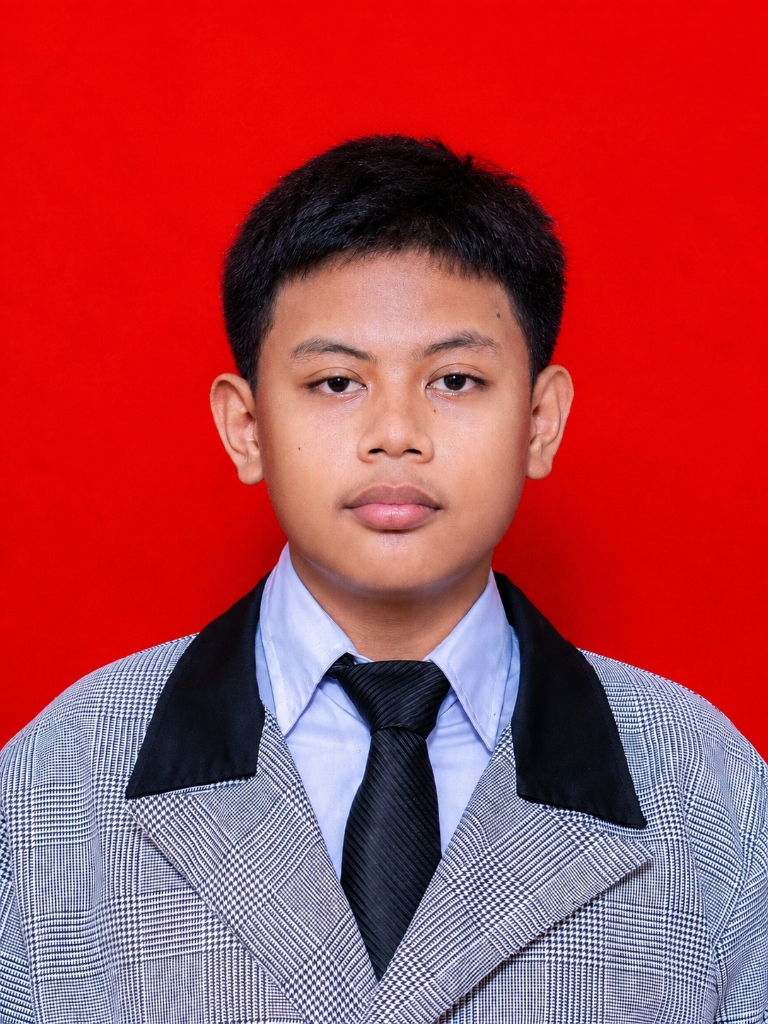
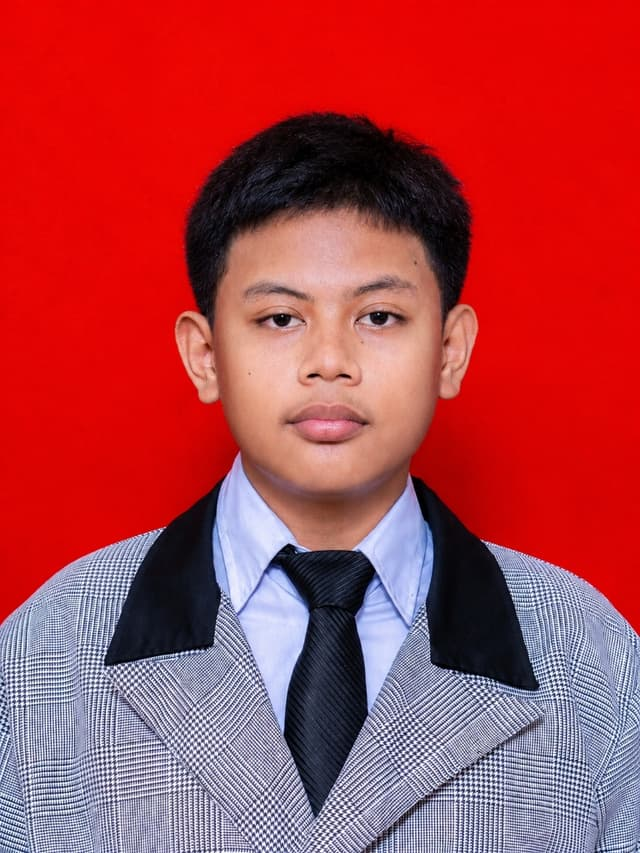
feat: implement contact section with Firebase integration, social links, and particle canvas layout

Changed region(s): [[0.0, 0.6401, 1.0, 1.0]]

diff --git a/src/components/layout/Footer.tsx b/src/components/layout/Footer.tsx
@@ -1,4 +1,4 @@
-"use client"
+"use client"
 
 import Link from 'next/link';
 import { useLanguage } from '@/components/providers/LanguageContext';
@@ -35,7 +35,7 @@ export const Footer = () => {
               <div className="w-8 h-8 rounded-xl bg-gradient-to-br from-primary to-primary/60 flex items-center justify-center text-primary-foreground text-[10px] font-black">N</div>
               <span className="text-lg font-black">Nara Andra Tyaga</span>
             </div>
-            <p className="text-sm text-muted-foreground/70 leading-relaxed max-w-xs">
+            <p className="text-sm text-foreground/80 leading-relaxed max-w-xs">
               {language === 'id' 
                 ? 'Membangun solusi digital yang modern, cepat, dan berdampak.'
                 : 'Building modern, fast, and impactful digital solutions.'}
@@ -44,7 +44,7 @@ export const Footer = () => {
 
           {/* Quick links */}
           <div className="space-y-4">
-            <h3 className="text-[10px] font-black uppercase tracking-[0.2em] text-muted-foreground">
+            <h3 className="text-[10px] font-black uppercase tracking-[0.2em] text-foreground/90">
               {language === 'id' ? 'Tautan Cepat' : 'Quick Links'}
             </h3>
             <nav className="flex flex-col gap-2">
@@ -52,7 +52,7 @@ export const Footer = () => {
                 <Link
                   key={link.label}
                   href={link.href}
-                  className="text-sm text-muted-foreground/60 hover:text-primary transition-colors duration-200 w-fit"
+                  className="text-sm text-muted-foreground hover:text-primary transition-colors duration-200 w-fit"
                 >
                   {link.label}
                 </Link>
@@ -62,7 +62,7 @@ export const Footer = () => {
 
           {/* Social */}
           <div className="space-y-4">
-            <h3 className="text-[10px] font-black uppercase tracking-[0.2em] text-muted-foreground">
+            <h3 className="text-[10px] font-black uppercase tracking-[0.2em] text-foreground/90">
               {language === 'id' ? 'Ikuti Saya' : 'Follow Me'}
             </h3>
             <div className="flex gap-3">
@@ -87,13 +87,13 @@ export const Footer = () => {
 
         {/* Bottom bar */}
         <div className="flex flex-col sm:flex-row items-center justify-between gap-4">
-          <p className="text-xs text-muted-foreground/50 text-center sm:text-left">
+          <p className="text-xs text-muted-foreground text-center sm:text-left">
             {t.footerCopyright}
           </p>
           {/* Tech stack badges */}
           <div className="flex flex-wrap justify-center gap-2">
             {['Next.js 15', 'React', 'TypeScript', 'Tailwind CSS', 'Firebase'].map(tech => (
-              <span key={tech} className="text-[8px] font-semibold px-2 py-0.5 rounded-full border border-border/20 text-muted-foreground/40 hover:text-primary hover:border-primary/30 transition-colors cursor-default">
+              <span key={tech} className="text-[8px] font-semibold px-2 py-0.5 rounded-full border border-border/40 text-muted-foreground hover:text-primary hover:border-primary/30 transition-colors cursor-default">
                 {tech}
               </span>
             ))}

diff --git a/src/components/sections/Contact.tsx b/src/components/sections/Contact.tsx
@@ -1,4 +1,4 @@
-
+
 "use client"
 
 import React, { useState } from 'react';
@@ -8,7 +8,13 @@ import { Button } from '../ui/button';
 import { Input } from '../ui/input';
 import { Textarea } from '../ui/textarea';
 import { Send, Linkedin, ExternalLink, Github, Instagram, Video, Mail, Loader2 } from 'lucide-react';
-import { FaWhatsapp } from 'react-icons/fa'; // Import WhatsApp icon
+
+// Inline WhatsApp SVG — replaces react-icons/fa (441 KiB bundle) with zero overhead
+const WhatsAppIcon = ({ className }: { className?: string }) => (
+  <svg className={className} viewBox="0 0 24 24" fill="currentColor" aria-hidden="true">
+    <path d="M17.472 14.382c-.297-.149-1.758-.867-2.03-.967-.273-.099-.471-.148-.67.15-.197.297-.767.966-.94 1.164-.173.199-.347.223-.644.075-.297-.15-1.255-.463-2.39-1.475-.883-.788-1.48-1.761-1.653-2.059-.173-.297-.018-.458.13-.606.134-.133.298-.347.446-.52.149-.174.198-.298.298-.497.099-.198.05-.371-.025-.52-.075-.149-.669-1.612-.916-2.207-.242-.579-.487-.5-.669-.51-.173-.008-.371-.01-.57-.01-.198 0-.52.074-.792.372-.272.297-1.04 1.016-1.04 2.479 0 1.462 1.065 2.875 1.213 3.074.149.198 2.096 3.2 5.077 4.487.709.306 1.262.489 1.694.625.712.227 1.36.195 1.871.118.571-.085 1.758-.719 2.006-1.413.248-.694.248-1.289.173-1.413-.074-.124-.272-.198-.57-.347m-5.421 7.403h-.004a9.87 9.87 0 01-5.031-1.378l-.361-.214-3.741.982.998-3.648-.235-.374a9.86 9.86 0 01-1.51-5.26c.001-5.45 4.436-9.884 9.888-9.884 2.64 0 5.122 1.03 6.988 2.898a9.825 9.825 0 012.893 6.994c-.003 5.45-4.437 9.884-9.885 9.884m8.413-18.297A11.815 11.815 0 0012.05 0C5.495 0 .16 5.335.157 11.892c0 2.096.547 4.142 1.588 5.945L.057 24l6.305-1.654a11.882 11.882 0 005.683 1.448h.005c6.554 0 11.89-5.335 11.893-11.893a11.821 11.821 0 00-3.48-8.413z"/>
+  </svg>
+);
 import { useFirestore } from '@/firebase';
 import { collection, addDoc } from 'firebase/firestore';
 import { m as motion, AnimatePresence } from 'framer-motion';
@@ -67,7 +73,7 @@ export const Contact = () => {
   };
 
   const socialLinks = [
-    { id: 'wa', label: t.waLink, value: profile.whatsapp, url: `https://wa.me/${profile.whatsapp}`, icon: FaWhatsapp, color: 'bg-green-500', active: !!profile.whatsapp },
+    { id: 'wa', label: t.waLink, value: profile.whatsapp, url: `https://wa.me/${profile.whatsapp}`, icon: WhatsAppIcon, color: 'bg-green-500', active: !!profile.whatsapp },
     { id: 'li', label: t.liLink, value: profile.linkedin?.replace('https://', ''), url: profile.linkedin, icon: Linkedin, color: 'bg-blue-600', active: !!profile.linkedin },
     { id: 'ig', label: 'Instagram', value: profile.instagram?.split('/').pop() || 'Instagram', url: profile.instagram, icon: Instagram, color: 'bg-pink-600', active: !!profile.instagram },
     { id: 'gh', label: 'GitHub', value: profile.github?.split('/').pop() || 'GitHub', url: profile.github, icon: Github, color: 'bg-slate-800', active: !!profile.github },

diff --git a/src/components/layout/Navbar.tsx b/src/components/layout/Navbar.tsx
@@ -1,4 +1,4 @@
-
+
 "use client"
 
 import React, { useState, useEffect } from 'react';
@@ -35,32 +35,39 @@ export const Navbar = () => {
   const [activeSection, setActiveSection] = useState('/');
 
   useEffect(() => {
+    let ticking = false;
     const handleScroll = () => {
-      const currentScrollY = window.scrollY;
-      
-      if (currentScrollY < 10) {
-        setIsVisible(true);
-      } else if (currentScrollY > lastScrollY) {
-        setIsVisible(false);
-      } else {
-        setIsVisible(true);
-      }
-      
-      setLastScrollY(currentScrollY);
-
-      // ScrollSpy logic
-      const sections = ['portfolio', 'journey', 'contact'];
-      let current = '/';
-      for (const section of sections) {
-        const element = document.getElementById(section);
-        if (element) {
-          const rect = element.getBoundingClientRect();
-          if (rect.top <= 150 && rect.bottom >= 150) {
-            current = `#${section}`;
+      if (!ticking) {
+        window.requestAnimationFrame(() => {
+          const currentScrollY = window.scrollY;
+          
+          if (currentScrollY < 10) {
+            setIsVisible(true);
+          } else if (currentScrollY > lastScrollY) {
+            setIsVisible(false);
+          } else {
+            setIsVisible(true);
           }
-        }
+          
+          setLastScrollY(currentScrollY);
+
+          // ScrollSpy logic
+          const sections = ['portfolio', 'journey', 'contact'];
+          let current = '/';
+          for (const section of sections) {
+            const element = document.getElementById(section);
+            if (element) {
+              const rect = element.getBoundingClientRect();
+              if (rect.top <= 150 && rect.bottom >= 150) {
+                current = `#${section}`;
+              }
+            }
+          }
+          setActiveSection(current);
+          ticking = false;
+        });
+        ticking = true;
       }
-      setActiveSection(current);
     };
 
     window.addEventListener('scroll', handleScroll, { passive: true });

diff --git a/next.config.ts b/next.config.ts
@@ -13,12 +13,20 @@ const nextConfig: NextConfig = {
   },
   // Tree-shake large packages — reduces unused JS significantly
   experimental: {
-    optimizePackageImports: ['framer-motion', 'lucide-react', '@radix-ui/react-icons'],
+    optimizePackageImports: ['framer-motion', 'lucide-react'],
+    cpus: 1,
+    workerThreads: false,
   },
-
+  // Per-icon tree shaking for lucide-react (eliminates unused icons in production)
+  modularizeImports: {
+    'lucide-react': {
+      transform: 'lucide-react/dist/esm/icons/{{kebabCase member}}',
+      skipDefaultConversion: true,
+    },
+  },
   async headers() {
     const isDev = process.env.NODE_ENV === 'development';
-    const scriptSrc = `default-src 'self'; script-src 'self' ${isDev ? "'unsafe-eval'" : ""} 'unsafe-inline' https://apis.google.com; style-src 'self' 'unsafe-inline' https://fonts.googleapis.com; img-src 'self' data: https: blob:; font-src 'self' data: https://fonts.gstatic.com; connect-src 'self' https://*.googleapis.com https://*.firebaseio.com https://identitytoolkit.googleapis.com https://securetoken.googleapis.com;`;
+    const scriptSrc = `default-src 'self'; script-src 'self' ${isDev ? "'unsafe-eval'" : ""} 'unsafe-inline' https://apis.google.com; frame-src 'self' https://*.firebaseapp.com https://*.google.com https://apis.google.com; style-src 'self' 'unsafe-inline' https://fonts.googleapis.com; img-src 'self' data: https: blob:; font-src 'self' data: https://fonts.gstatic.com; connect-src 'self' https://*.googleapis.com https://*.firebaseio.com https://identitytoolkit.googleapis.com https://securetoken.googleapis.com;`;
 
     return [
       {
@@ -72,6 +80,10 @@ const nextConfig: NextConfig = {
     ];
   },
   images: {
+    // AVIF/WebP first — modern browsers get 30-50% smaller images
+    formats: ['image/avif', 'image/webp'],
+    // 1 year cache for optimized images — huge performance win on repeat visits
+    minimumCacheTTL: 31536000,
     remotePatterns: [
       {
         protocol: 'http',

diff --git a/src/app/page.tsx b/src/app/page.tsx
@@ -1,4 +1,4 @@
-import dynamic from 'next/dynamic';
+import dynamic from 'next/dynamic';
 import { Navbar } from '@/components/layout/Navbar';
 import { Hero } from '@/components/sections/Hero';
 import { ProjectStoreProvider } from '@/stores/ProjectStore';
@@ -42,13 +42,16 @@ const Contact = dynamic(() => import('@/components/sections/Contact').then(mod =
   loading: () => <ContactSkeleton />,
 });
 
-// Fetch featured project for LCP optimization
+// Fetch featured project for LCP optimization — with tight timeout to not block render
 async function getFeaturedProject() {
   try {
+    const controller = new AbortController();
+    const timeoutId = setTimeout(() => controller.abort(), 2000); // 2s max
     const res = await fetch(
       'https://firestore.googleapis.com/v1/projects/studio-6743233958-ba96d/databases/(default)/documents/projects',
-      { next: { revalidate: 3600 } }
+      { next: { revalidate: 3600 }, signal: controller.signal }
     );
+    clearTimeout(timeoutId);
     if (!res.ok) return null;
     const data = await res.json();
     let doc = data.documents?.find((doc: any) => doc.fields?.featured?.booleanValue === true);
@@ -99,6 +102,15 @@ export default async function Home() {
         type="application/ld+json"
         dangerouslySetInnerHTML={{ __html: JSON.stringify(jsonLd) }}
       />
+      {/* LCP image preload — tells browser to fetch hero image ASAP */}
+      {featuredProject?.imageUrl && (
+        <link
+          rel="preload"
+          as="image"
+          href={`/_next/image?url=${encodeURIComponent(featuredProject.imageUrl)}&w=640&q=60`}
+          fetchPriority="high"
+        />
+      )}
       <main className="min-h-screen selection:bg-primary selection:text-primary-foreground">
         {/* --- Above the fold (loaded immediately) --- */}
         <Navbar />

diff --git a/src/components/features/ParticleCanvas.tsx b/src/components/features/ParticleCanvas.tsx
@@ -17,6 +17,11 @@ export const ParticleCanvas = ({ className, density = 20000 }: ParticleCanvasPro
     const ctx = canvas.getContext('2d');
     if (!ctx) return;
 
+    // Respect prefers-reduced-motion
+    if (window.matchMedia('(prefers-reduced-motion: reduce)').matches) {
+      return;
+    }
+
     let particleRaf: number;
     let lastFrameTime = 0;
     const fpsInterval = 1000 / 30; // Cap to 30 FPS
@@ -28,15 +33,17 @@ export const ParticleCanvas = ({ className, density = 20000 }: ParticleCanvasPro
     resize();
     window.addEventListener('resize', resize);
 
+    const isMobile = window.innerWidth < 640;
     const particles: { x: number; y: number; vx: number; vy: number; size: number; opacity: number }[] = [];
-    const count = Math.min(60, Math.floor((canvas.width * canvas.height) / density));
+    const maxParticles = isMobile ? 15 : 45;
+    const count = Math.min(maxParticles, Math.floor((canvas.width * canvas.height) / density));
     
     for (let i = 0; i < count; i++) {
       particles.push({
         x: Math.random() * canvas.width,
         y: Math.random() * canvas.height,
-        vx: (Math.random() - 0.5) * 0.4,
-        vy: (Math.random() - 0.5) * 0.4,
+        vx: (Math.random() - 0.5) * (isMobile ? 0.2 : 0.4),
+        vy: (Math.random() - 0.5) * (isMobile ? 0.2 : 0.4),
         size: Math.random() * 1.5 + 0.5,
         opacity: Math.random() * 0.4 + 0.2,
       });

diff --git a/src/components/sections/Hero.tsx b/src/components/sections/Hero.tsx
@@ -93,12 +93,12 @@ export const Hero = ({ initialFeaturedProject }: { initialFeaturedProject?: any 
         <div
           id="hero-orb-1"
           className="absolute top-[10%] left-[5%] w-[560px] h-[560px] bg-primary/8 rounded-full blur-[140px]"
-          style={{ transition: 'transform 0.8s cubic-bezier(0.25, 0.46, 0.45, 0.94)' }}
+          style={{ transition: 'transform 0.8s cubic-bezier(0.25, 0.46, 0.45, 0.94)', willChange: 'transform', contain: 'strict' }}
         />
         <div
           id="hero-orb-2"
           className="absolute bottom-[5%] right-[0%] w-[420px] h-[420px] bg-primary/5 rounded-full blur-[120px]"
-          style={{ transition: 'transform 0.8s cubic-bezier(0.25, 0.46, 0.45, 0.94)' }}
+          style={{ transition: 'transform 0.8s cubic-bezier(0.25, 0.46, 0.45, 0.94)', willChange: 'transform', contain: 'strict' }}
         />
         <div className="absolute top-0 inset-x-0 h-px bg-gradient-to-r from-transparent via-primary/25 to-transparent" />
         <div className="absolute bottom-0 inset-x-0 h-px bg-gradient-to-r from-transparent via-border/40 to-transparent" />

diff --git a/src/components/providers/ClientShell.tsx b/src/components/providers/ClientShell.tsx
@@ -6,6 +6,7 @@
  * It is used inside layout.tsx (which is a Server Component).
  */
 
+import React, { useState, useEffect } from 'react';
 import dynamic from 'next/dynamic';
 
 const CustomCursor = dynamic(
@@ -26,12 +27,28 @@ const ThemeDecorations = dynamic(
 );
 
 export function ClientShell() {
+  const [isIdle, setIsIdle] = useState(false);
+
+  useEffect(() => {
+    if ('requestIdleCallback' in window) {
+      const handle = (window as any).requestIdleCallback(() => setIsIdle(true), { timeout: 3000 });
+      return () => (window as any).cancelIdleCallback?.(handle);
+    } else {
+      const timer = setTimeout(() => setIsIdle(true), 1500);
+      return () => clearTimeout(timer);
+    }
+  }, []);
+
   return (
     <>
       <ThemeDecorations />
       <CustomCursor />
-      <WebVitalsReporter />
-      <ServiceWorkerRegistrar />
+      {isIdle && (
+        <>
+          <WebVitalsReporter />
+          <ServiceWorkerRegistrar />
+        </>
+      )}
     </>
   );
 }

diff --git a/src/app/robots.ts b/src/app/robots.ts
@@ -2,11 +2,19 @@ import { MetadataRoute } from 'next'
 
 export default function robots(): MetadataRoute.Robots {
   return {
-    rules: {
-      userAgent: '*',
-      allow: '/',
-      disallow: '/admin',
-    },
+    rules: [
+      {
+        userAgent: '*',
+        allow: '/',
+        disallow: '/admin',
+      },
+      // ── Explicitly Welcome AI Crawlers (AIO) ──
+      {
+        userAgent: ['GPTBot', 'Google-Extended', 'anthropic-ai', 'Claude-Web', 'PerplexityBot', 'cohere-ai', 'OAI-SearchBot'],
+        allow: '/',
+        disallow: '/admin',
+      }
+    ],
     sitemap: 'https://www.naraandratyaga.my.id/sitemap.xml',
   }
 }
